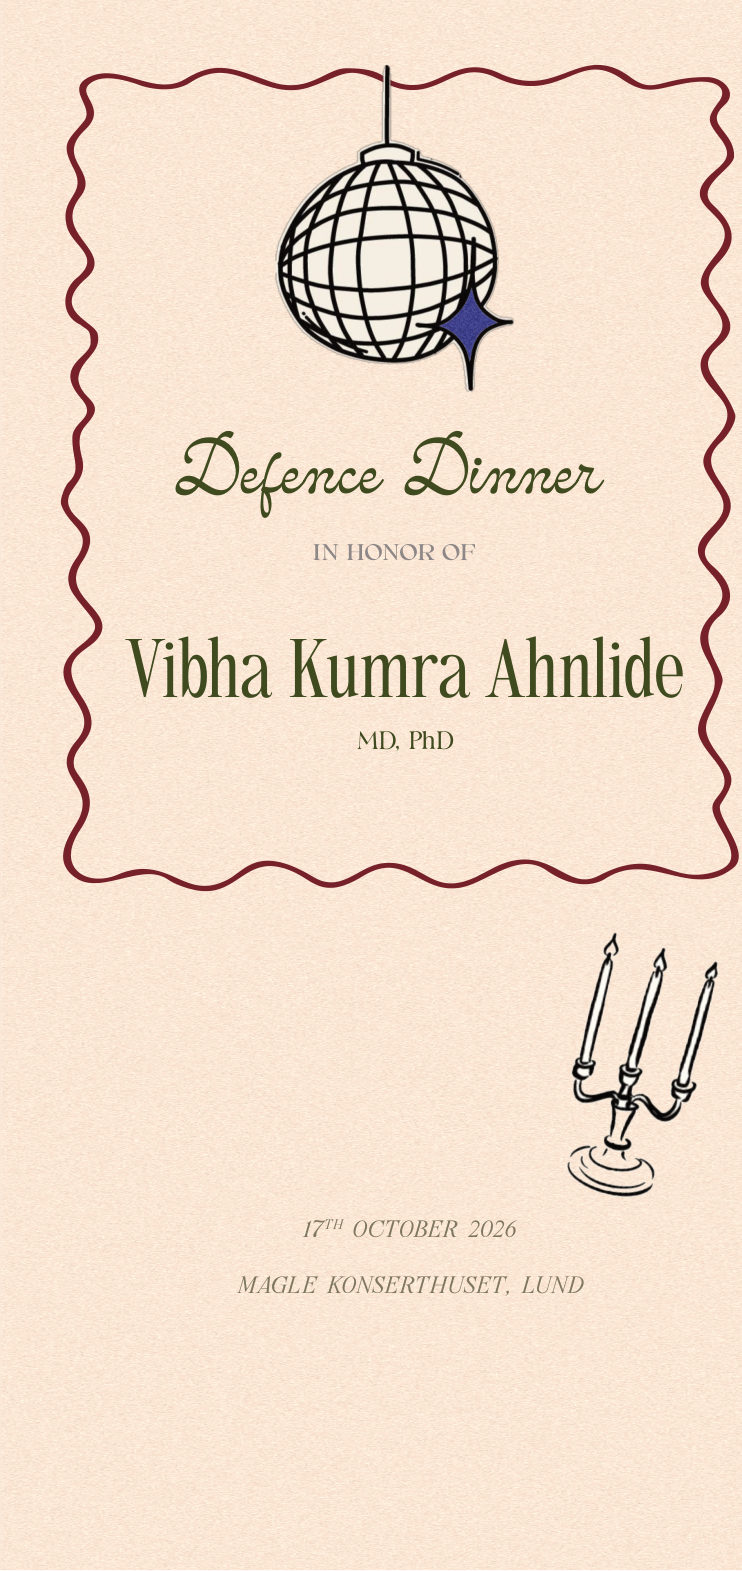
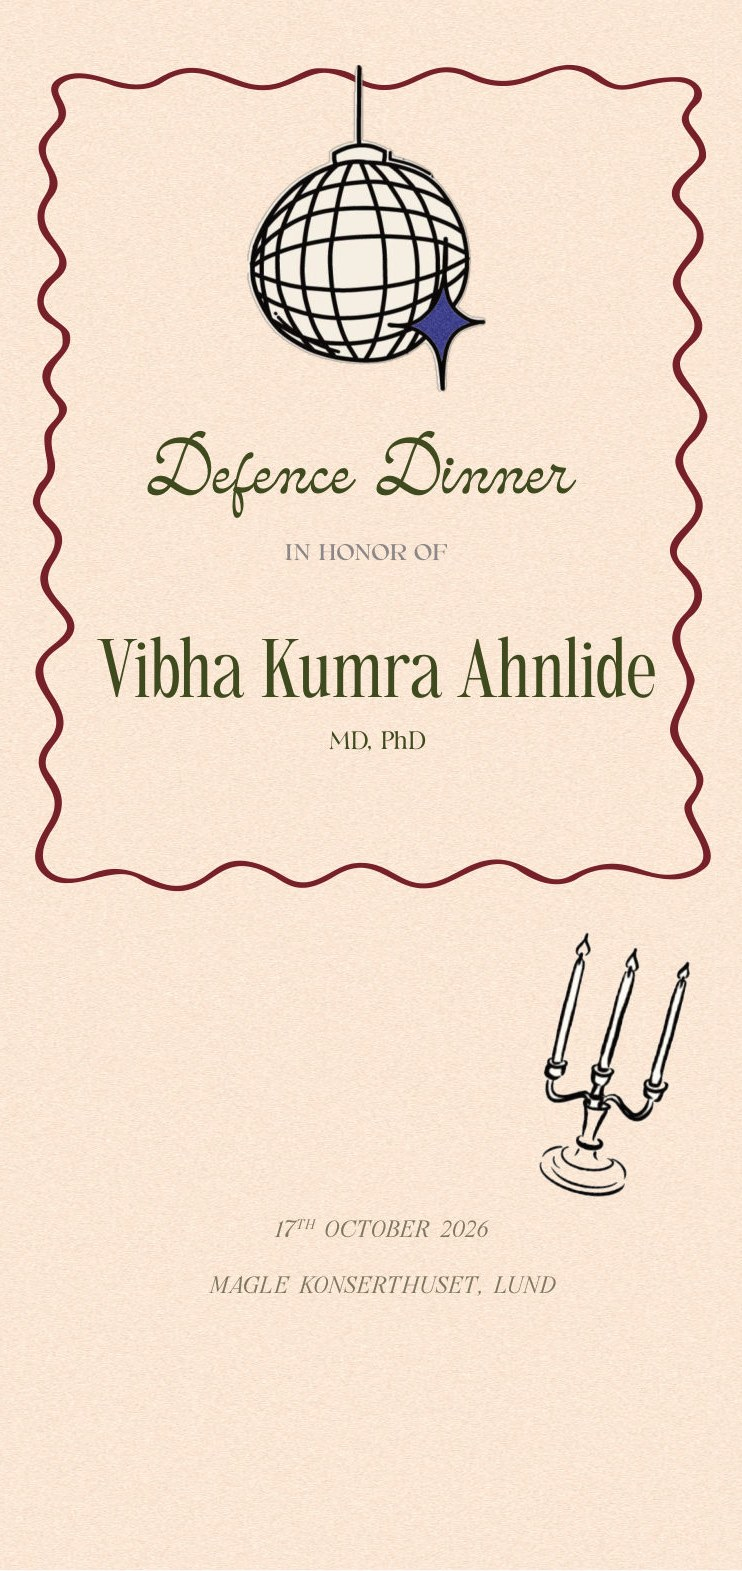
Add files via upload

diff --git a/index (6).html b/index (6).html
@@ -1,0 +1,208 @@
+<!doctype html>
+<html lang="sv">
+<head>
+<meta charset="utf-8">
+<meta name="viewport" content="width=device-width, initial-scale=1, viewport-fit=cover">
+<title>Vibhas Sånghäfte</title>
+<link rel="preconnect" href="https://fonts.googleapis.com">
+<link rel="preconnect" href="https://fonts.gstatic.com" crossorigin>
+<link rel="stylesheet" href="https://fonts.googleapis.com/css2?family=Fraunces:opsz,wght@9..144,600;9..144,900&family=Petit+Formal+Script&display=swap">
+<style>
+/* Layout: the booklet's pages laid out like paper on a party table, a sticky song strip on top, a floating bingo shortcut */
+:root{
+  --table:#f4d9c3; --paper:#fbe7d5; --ink:#262120; --muted:#86705f; --wine:#7d2027; --wine-soft:#a8434a; --cobalt:#2f4fa8; --gold:#e8b44a;
+  --display:"Fraunces",Georgia,"Times New Roman",serif; --script:"Petit Formal Script","Snell Roundhand",cursive;
+  color-scheme:light;
+}
+*{box-sizing:border-box}
+html{scroll-behavior:smooth}
+@media (prefers-reduced-motion:reduce){html{scroll-behavior:auto}}
+body{margin:0;background-color:var(--table);background-image:radial-gradient(rgba(125,32,39,.09) 1.2px,transparent 1.3px);background-size:22px 22px;color:var(--ink);font-family:var(--display);-webkit-font-smoothing:antialiased}
+
+/* Top strip */
+.top{position:sticky;top:0;z-index:5;padding-top:env(safe-area-inset-top,0px);background:rgba(251,231,213,.88);-webkit-backdrop-filter:blur(10px);backdrop-filter:blur(10px);border-bottom:1px solid rgba(125,32,39,.18)}
+.brand{display:flex;align-items:baseline;justify-content:center;gap:.5rem;padding:.55rem 16px 0;color:var(--wine)}
+.brand .s{font-family:var(--script);font-size:1.15rem}
+.brand .d{font-size:.68rem;letter-spacing:.16em;text-transform:uppercase;color:var(--muted)}
+.chips{overflow-x:auto;scrollbar-width:none;-webkit-overflow-scrolling:touch}
+.chips::-webkit-scrollbar{display:none}
+.chips ol{list-style:none;margin:0;padding:.5rem 16px .65rem;display:flex;gap:.4rem;width:max-content}
+.chips a{display:block;white-space:nowrap;padding:.38rem .8rem;border-radius:999px;border:1.5px solid var(--wine);color:var(--wine);text-decoration:none;font-size:.86rem;font-weight:600;transition:background-color .2s,color .2s}
+.chips a.on,.chips a:hover{background:var(--wine);color:var(--paper)}
+.chips a:focus-visible,button:focus-visible{outline:3px solid var(--cobalt);outline-offset:2px}
+
+/* Pages */
+main{max-width:31rem;margin:0 auto;padding:1.6rem 16px 2rem;display:flex;flex-direction:column;gap:2.2rem}
+.page{position:relative;margin:0;scroll-margin-top:6.5rem;background:var(--paper);border-radius:4px;box-shadow:0 1px 2px rgba(60,25,20,.12),0 10px 28px -8px rgba(60,25,20,.28);transform:rotate(var(--r,0deg))}
+.page:nth-of-type(4n+1){--r:-.7deg}
+.page:nth-of-type(4n+3){--r:.6deg}
+.page img{display:block;width:100%;height:auto;border-radius:4px}
+.page.tape::before{content:"";position:absolute;top:-.7rem;left:50%;width:5.5rem;height:1.5rem;transform:translateX(-50%) rotate(-3deg);background:rgba(232,180,74,.55);box-shadow:0 1px 2px rgba(60,25,20,.12);z-index:1}
+.label{display:flex;align-items:center;gap:.6rem;color:var(--wine);font-size:.72rem;letter-spacing:.18em;text-transform:uppercase;font-weight:600;margin-bottom:-1.3rem}
+.label::before,.label::after{content:"";flex:1;height:1px;background:rgba(125,32,39,.3)}
+
+/* Bingo */
+.bingo{--r:0deg}
+.grid{position:absolute;left:3.05%;top:32.05%;width:93.85%;height:66.34%;display:grid;grid-template-columns:repeat(5,1fr);grid-template-rows:repeat(5,1fr)}
+.grid button{all:unset;cursor:pointer;-webkit-tap-highlight-color:transparent;transition:background-color .15s}
+.grid button[aria-pressed="true"]{background:rgba(38,33,32,.3)}
+.grid button:focus-visible{outline:3px solid var(--cobalt);outline-offset:-3px}
+.bar{display:flex;align-items:center;gap:.9rem;margin-top:-1.2rem;padding:.75rem .9rem;background:var(--paper);border-radius:999px;box-shadow:0 6px 18px -8px rgba(60,25,20,.35)}
+.meter{flex:1;min-width:0;display:flex;flex-direction:column;gap:.35rem}
+.meter span{font-size:.85rem;font-weight:600;font-variant-numeric:tabular-nums}
+.track{height:.45rem;border-radius:999px;background:rgba(125,32,39,.14);overflow:hidden}
+.fill{height:100%;width:0;background:linear-gradient(90deg,var(--wine),var(--wine-soft));border-radius:inherit;transition:width .3s}
+.reset{font:inherit;font-size:.82rem;font-weight:600;color:var(--wine);background:none;border:1.5px solid var(--wine);border-radius:999px;padding:.35rem .8rem;cursor:pointer;white-space:nowrap}
+.reset.armed{background:var(--wine);color:var(--paper)}
+
+/* Floating bingo button */
+.fab{position:fixed;right:16px;bottom:calc(16px + env(safe-area-inset-bottom,0px));z-index:6;display:flex;align-items:center;gap:.4rem;padding:.7rem 1rem .7rem .8rem;border-radius:999px;background:var(--wine);color:var(--paper);text-decoration:none;font-weight:900;font-size:.95rem;letter-spacing:.04em;box-shadow:0 8px 20px -6px rgba(60,25,20,.5);transition:opacity .25s,transform .25s}
+.fab b{display:grid;place-items:center;width:1.6rem;height:1.6rem;border-radius:50%;background:var(--gold);color:var(--ink);font-size:.8rem;font-variant-numeric:tabular-nums}
+.fab.hide{opacity:0;transform:translateY(1rem);pointer-events:none}
+
+/* Win popup */
+.pop{position:fixed;inset:0;z-index:20;background:rgba(38,33,32,.6);display:flex;align-items:center;justify-content:center;padding:16px}
+.pop[hidden]{display:none!important}
+.card{position:relative;background:var(--paper);border:2px solid var(--wine);border-radius:24px;max-width:22rem;width:100%;padding:1.2rem 1.1rem 1.1rem;text-align:center;display:flex;flex-direction:column;gap:.8rem;animation:popin .4s cubic-bezier(.2,1.4,.4,1)}
+.card img{width:100%;max-height:50vh;object-fit:contain;border-radius:14px}
+.card h3{margin:0;font-weight:900;font-size:2rem;line-height:1.1;color:var(--wine)}
+.card p{margin:0;font-size:1.05rem}
+.card .ok{font:inherit;font-weight:900;background:var(--wine);color:var(--paper);border:0;border-radius:999px;padding:.75rem 1rem;cursor:pointer}
+.card .x{position:absolute;top:.35rem;right:.45rem;font:400 1.8rem/1 Georgia,serif;background:var(--paper);border:0;border-radius:50%;color:var(--ink);cursor:pointer;width:2.2rem;height:2.2rem}
+canvas.confetti{position:fixed;inset:0;width:100%;height:100%;pointer-events:none;z-index:21}
+@keyframes popin{from{transform:scale(.7) rotate(-4deg);opacity:0}to{transform:none;opacity:1}}
+@media (prefers-reduced-motion:reduce){.card{animation:none}}
+
+footer{text-align:center;padding:1rem 16px calc(6rem + env(safe-area-inset-bottom,0px));display:flex;flex-direction:column;gap:.4rem;align-items:center}
+footer .s{font-family:var(--script);color:var(--wine);font-size:1.3rem}
+footer .big{font-weight:900;font-size:2rem;line-height:1.05;text-wrap:balance}
+footer .star{color:var(--cobalt);font-size:1.4rem}
+footer small{color:var(--muted);font-size:.8rem}
+</style>
+</head>
+<body>
+
+<header class="top">
+  <div class="brand"><span class="s">Defence Dinner</span><span class="d">17.10.2026 · Lund</span></div>
+  <nav class="chips" aria-label="Hoppa till"><ol id="chips">
+    <li><a href="#program">Program</a></li>
+    <li><a href="#bingo">Bingo</a></li>
+    <li><a href="#feta">Feta Fransyskor</a></li>
+    <li><a href="#lever">Sjuka Lever</a></li>
+    <li><a href="#hell">Hell and Gore</a></li>
+    <li><a href="#liquor">Liquor store</a></li>
+    <li><a href="#punsch">Punschen kommer</a></li>
+    <li><a href="#siffer">Siffervisan</a></li>
+    <li><a href="#enhet">Enhetsvisan</a></li>
+    <li><a href="#festen">Festen ska börjas</a></li>
+  </ol></nav>
+</header>
+
+<main>
+  <figure class="page tape" id="top"><img src="s1.jpg" alt="Defence Dinner in honor of Vibha Kumra Ahnlide, MD, PhD. 17th October 2026, Magle Konserthuset, Lund."></figure>
+  <figure class="page" id="program"><img src="s2.jpg" alt="Welcome and program: 18:00 mingle, 18:40 seats, 18:50 welcome, 19:00 dinner, 21:40 dessert, 23:00 DJ and dancing." loading="lazy"></figure>
+
+  <div class="label">Spela under kvällen</div>
+  <figure class="page bingo" id="bingo">
+    <img src="bingo.jpg" alt="Dr Vibhas bingo: 5 gånger 5 rutor med saker som kan hända under kvällen." loading="lazy">
+    <div class="grid" id="grid" aria-label="Bingorutor"></div>
+  </figure>
+  <div class="bar">
+    <div class="meter"><span id="count">Tryck på en ruta för att kryssa i den</span><div class="track"><div class="fill" id="fill"></div></div></div>
+    <button class="reset" id="reset" type="button">Rensa</button>
+  </div>
+
+  <div class="label">Sångerna</div>
+  <figure class="page tape" id="feta"><img src="s3.jpg" alt="Feta Fransyskor, melodi Schuberts militärmarsch" loading="lazy"></figure>
+  <figure class="page" id="lever"><img src="s4.jpg" alt="Sjuka Lever, melodi Hallelujah" loading="lazy"></figure>
+  <figure class="page" id="hell"><img src="s5.jpg" alt="Sjuka Lever fortsättning och Hell and Gore, melodi Helan går" loading="lazy"></figure>
+  <figure class="page" id="liquor"><img src="s6.jpg" alt="The Liquor store, melodi Du käre lille snickerbo" loading="lazy"></figure>
+  <figure class="page tape" id="punsch"><img src="s7.jpg" alt="Punschen kommer, melodi Glada Änkan" loading="lazy"></figure>
+  <figure class="page" id="siffer"><img src="s8.jpg" alt="Siffervisan, melodi Ritsch, ratsch, filibom" loading="lazy"></figure>
+  <figure class="page" id="enhet"><img src="s9.jpg" alt="Enhetsvisan, melodi Studentsången" loading="lazy"></figure>
+  <figure class="page tape" id="festen"><img src="s10.jpg" alt="Festen ska börjas, melodi Vårvindar friska" loading="lazy"></figure>
+</main>
+
+<footer>
+  <span class="star">✦</span>
+  <span class="big">Skål, Doktor Vibha!</span>
+  <small>Nyp för att zooma om texten är liten</small>
+</footer>
+
+<a class="fab" id="fab" href="#bingo" aria-label="Till bingot"><b id="fabn">0</b>BINGO</a>
+
+<div class="pop" id="toast" hidden role="dialog" aria-modal="true" aria-labelledby="popt">
+  <div class="card">
+    <button class="x" type="button" aria-label="Stäng">×</button>
+    <img src="bingo-win.jpg" alt="Bingo! med en bild på Vibha">
+    <h3 id="popt">Congrats!</h3>
+    <p>Don't forget to shout <b>BINGO!</b></p>
+    <button class="ok" type="button">OK!</button>
+  </div>
+</div>
+
+<script>
+(function(){
+  var KEY='vibha-bingo', grid=document.getElementById('grid'), count=document.getElementById('count'), fill=document.getElementById('fill'), toast=document.getElementById('toast'), fabn=document.getElementById('fabn');
+  var marks=[]; try{marks=JSON.parse(localStorage.getItem(KEY))||[]}catch(e){}
+  if(marks.length!==25) marks=Array(25).fill(false);
+  var lines=[]; for(var i=0;i<5;i++){var r=[],c=[];for(var j=0;j<5;j++){r.push(i*5+j);c.push(j*5+i)}lines.push(r,c)}
+  lines.push([0,6,12,18,24],[4,8,12,16,20]);
+  function bingos(){return lines.filter(function(l){return l.every(function(k){return marks[k]})}).length}
+  var had=bingos();
+  function render(){
+    var n=marks.filter(Boolean).length;
+    count.textContent=n?n+' av 25 ikryssade':'Tryck på en ruta för att kryssa i den';
+    fill.style.width=(n/25*100)+'%'; fabn.textContent=n;
+    Array.prototype.forEach.call(grid.children,function(b,k){b.setAttribute('aria-pressed',marks[k]?'true':'false')});
+  }
+  for(var k=0;k<25;k++){(function(k){
+    var b=document.createElement('button'); b.type='button'; b.setAttribute('aria-label','Ruta '+(Math.floor(k/5)+1)+', '+(k%5+1));
+    b.addEventListener('click',function(){
+      marks[k]=!marks[k]; try{localStorage.setItem(KEY,JSON.stringify(marks))}catch(e){}
+      var now=bingos(); if(now>had){toast.hidden=false;toast.querySelector('.ok').focus();confetti()} had=now; render();
+    });
+    grid.appendChild(b);})(k)}
+  function closePop(){toast.hidden=true}
+  toast.addEventListener('click',function(e){if(e.target===toast||e.target.closest('.x,.ok'))closePop()});
+  document.addEventListener('keydown',function(e){if(e.key==='Escape')closePop()});
+  var reset=document.getElementById('reset'), armed=false, rt;
+  reset.addEventListener('click',function(){
+    if(!armed){armed=true;reset.classList.add('armed');reset.textContent='Tryck igen';rt=setTimeout(function(){armed=false;reset.classList.remove('armed');reset.textContent='Rensa'},3000);return}
+    clearTimeout(rt);armed=false;reset.classList.remove('armed');reset.textContent='Rensa';
+    marks=Array(25).fill(false);had=0;try{localStorage.removeItem(KEY)}catch(e){}render();
+  });
+  render();
+
+  /* Confetti on bingo */
+  function confetti(){
+    if(window.matchMedia&&matchMedia('(prefers-reduced-motion: reduce)').matches) return;
+    var cv=document.createElement('canvas'); cv.className='confetti'; document.body.appendChild(cv);
+    var dpr=window.devicePixelRatio||1, W=cv.width=innerWidth*dpr, H=cv.height=innerHeight*dpr, ctx=cv.getContext('2d');
+    var cols=['#7d2027','#2f4fa8','#e8b44a','#f2a7b5','#4c5a2c'], ps=[];
+    for(var i=0;i<140;i++) ps.push({x:W/2,y:H*0.45,vx:(Math.random()-.5)*22*dpr,vy:(-Math.random()*20-6)*dpr,s:(4+Math.random()*6)*dpr,c:cols[i%5],a:Math.random()*6,va:(Math.random()-.5)*.4});
+    var t=0;(function step(){
+      ctx.clearRect(0,0,W,H); t++;
+      ps.forEach(function(p){p.vy+=.55*dpr;p.vx*=.985;p.x+=p.vx;p.y+=p.vy;p.a+=p.va;ctx.save();ctx.translate(p.x,p.y);ctx.rotate(p.a);ctx.fillStyle=p.c;ctx.fillRect(-p.s/2,-p.s/4,p.s,p.s/2);ctx.restore()});
+      if(t<150) requestAnimationFrame(step); else cv.remove();
+    })();
+  }
+
+  /* Highlight the current section in the strip, hide the bingo button while on the bingo card */
+  var chips=document.querySelectorAll('#chips a'), fab=document.getElementById('fab'), map={};
+  chips.forEach(function(a){map[a.getAttribute('href').slice(1)]=a});
+  if('IntersectionObserver' in window){
+    var io=new IntersectionObserver(function(es){es.forEach(function(e){
+      if(e.isIntersecting&&map[e.target.id]){
+        chips.forEach(function(a){a.classList.remove('on')}); var a=map[e.target.id]; a.classList.add('on');
+        var strip=a.closest('.chips'); strip.scrollTo({left:a.offsetLeft-16,behavior:'smooth'});
+      }
+    })},{rootMargin:'-40% 0px -55% 0px'});
+    document.querySelectorAll('main .page').forEach(function(p){io.observe(p)});
+    var io2=new IntersectionObserver(function(es){es.forEach(function(e){fab.classList.toggle('hide',e.isIntersecting)})},{threshold:.25});
+    io2.observe(document.getElementById('bingo'));
+  }
+})();
+</script>
+</body>
+</html>
